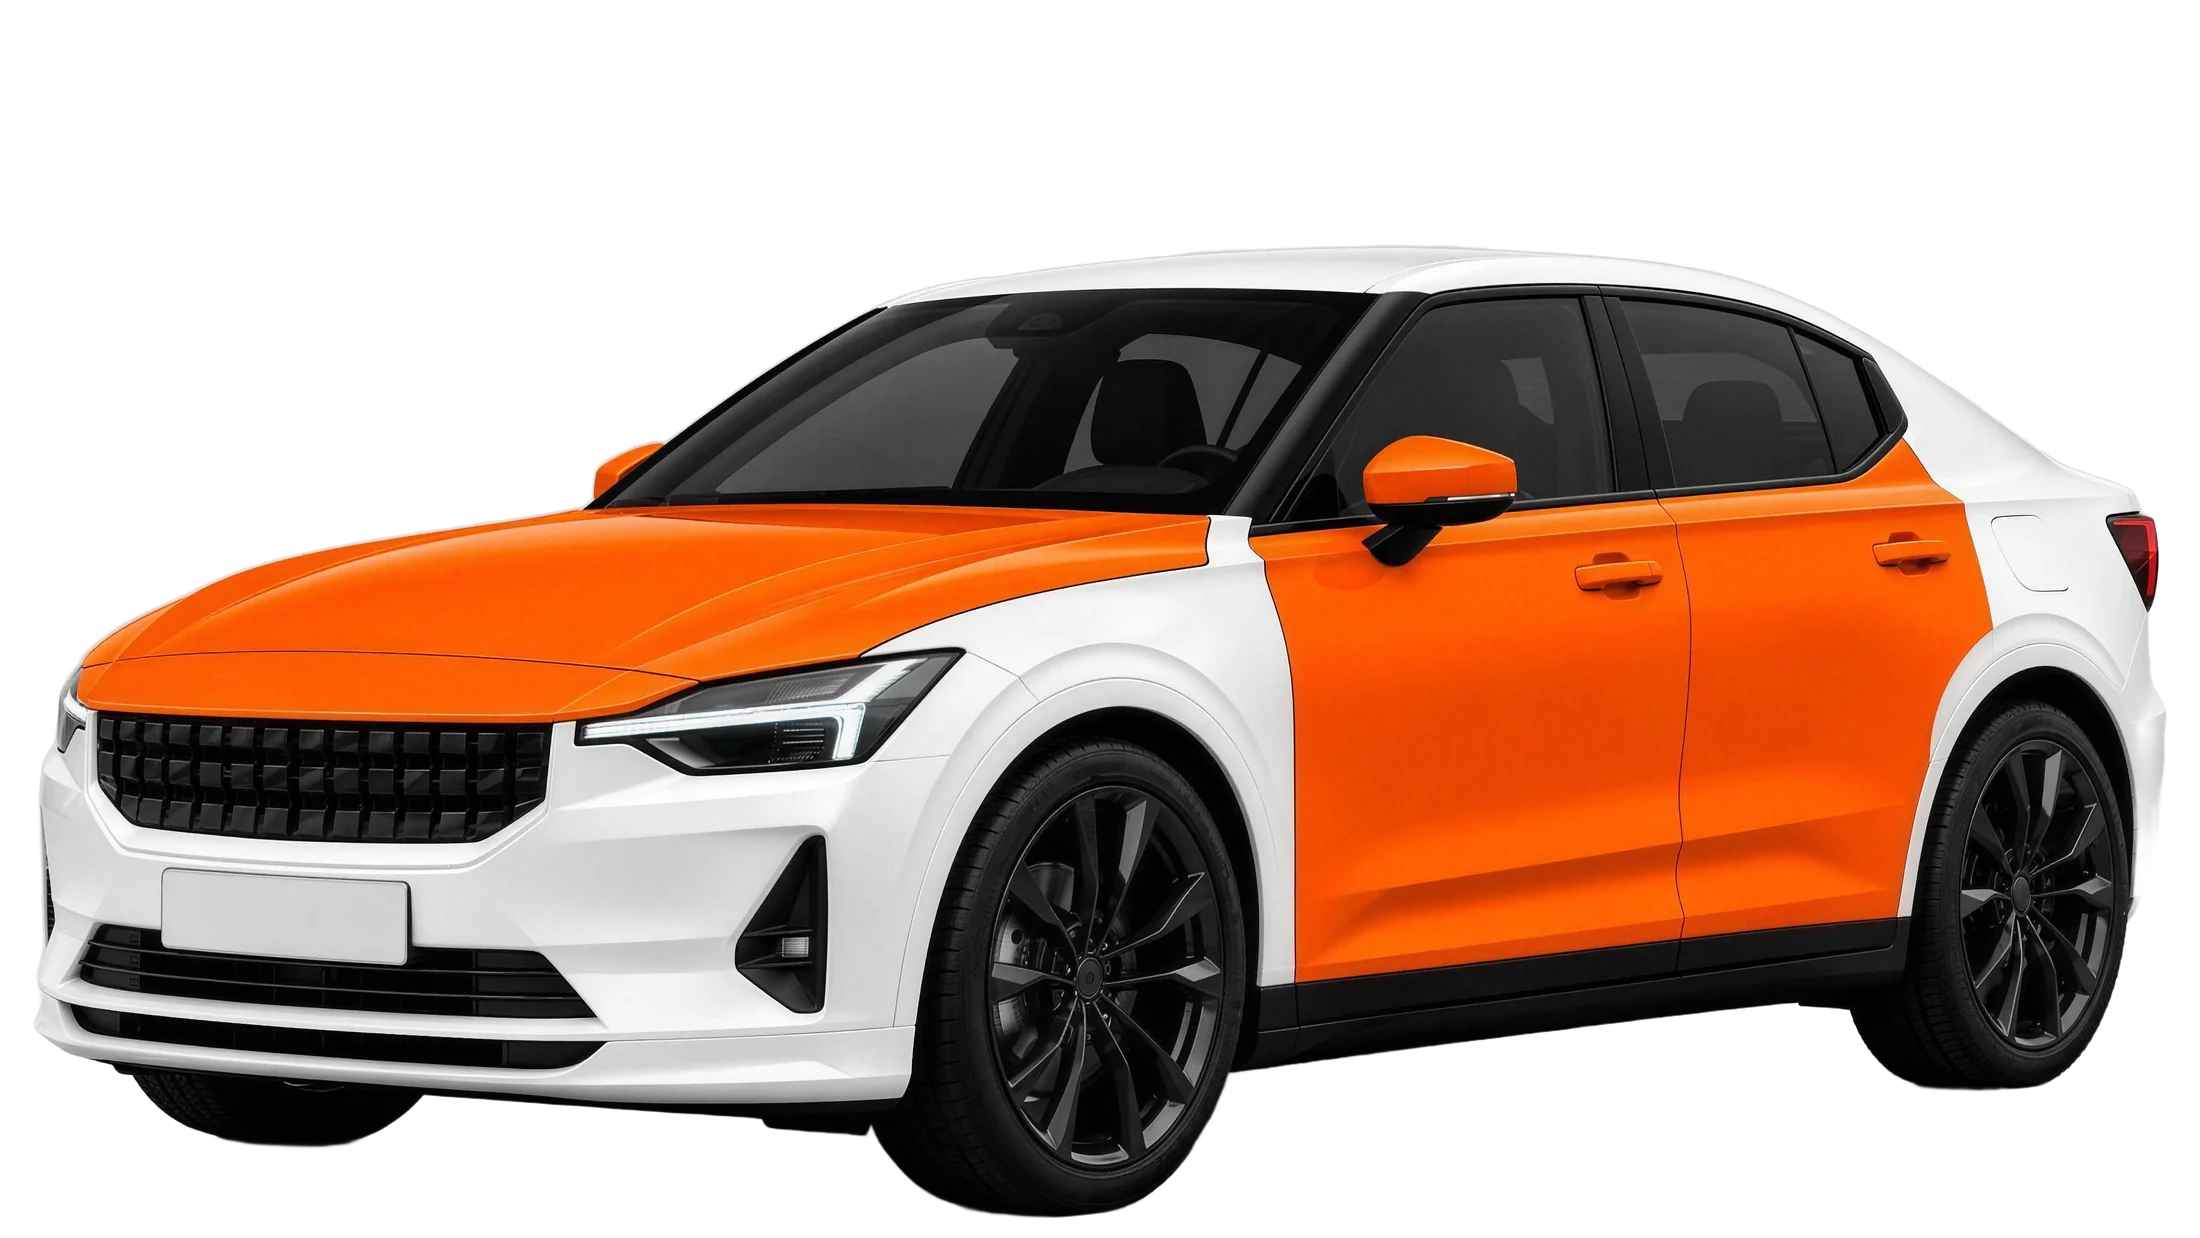
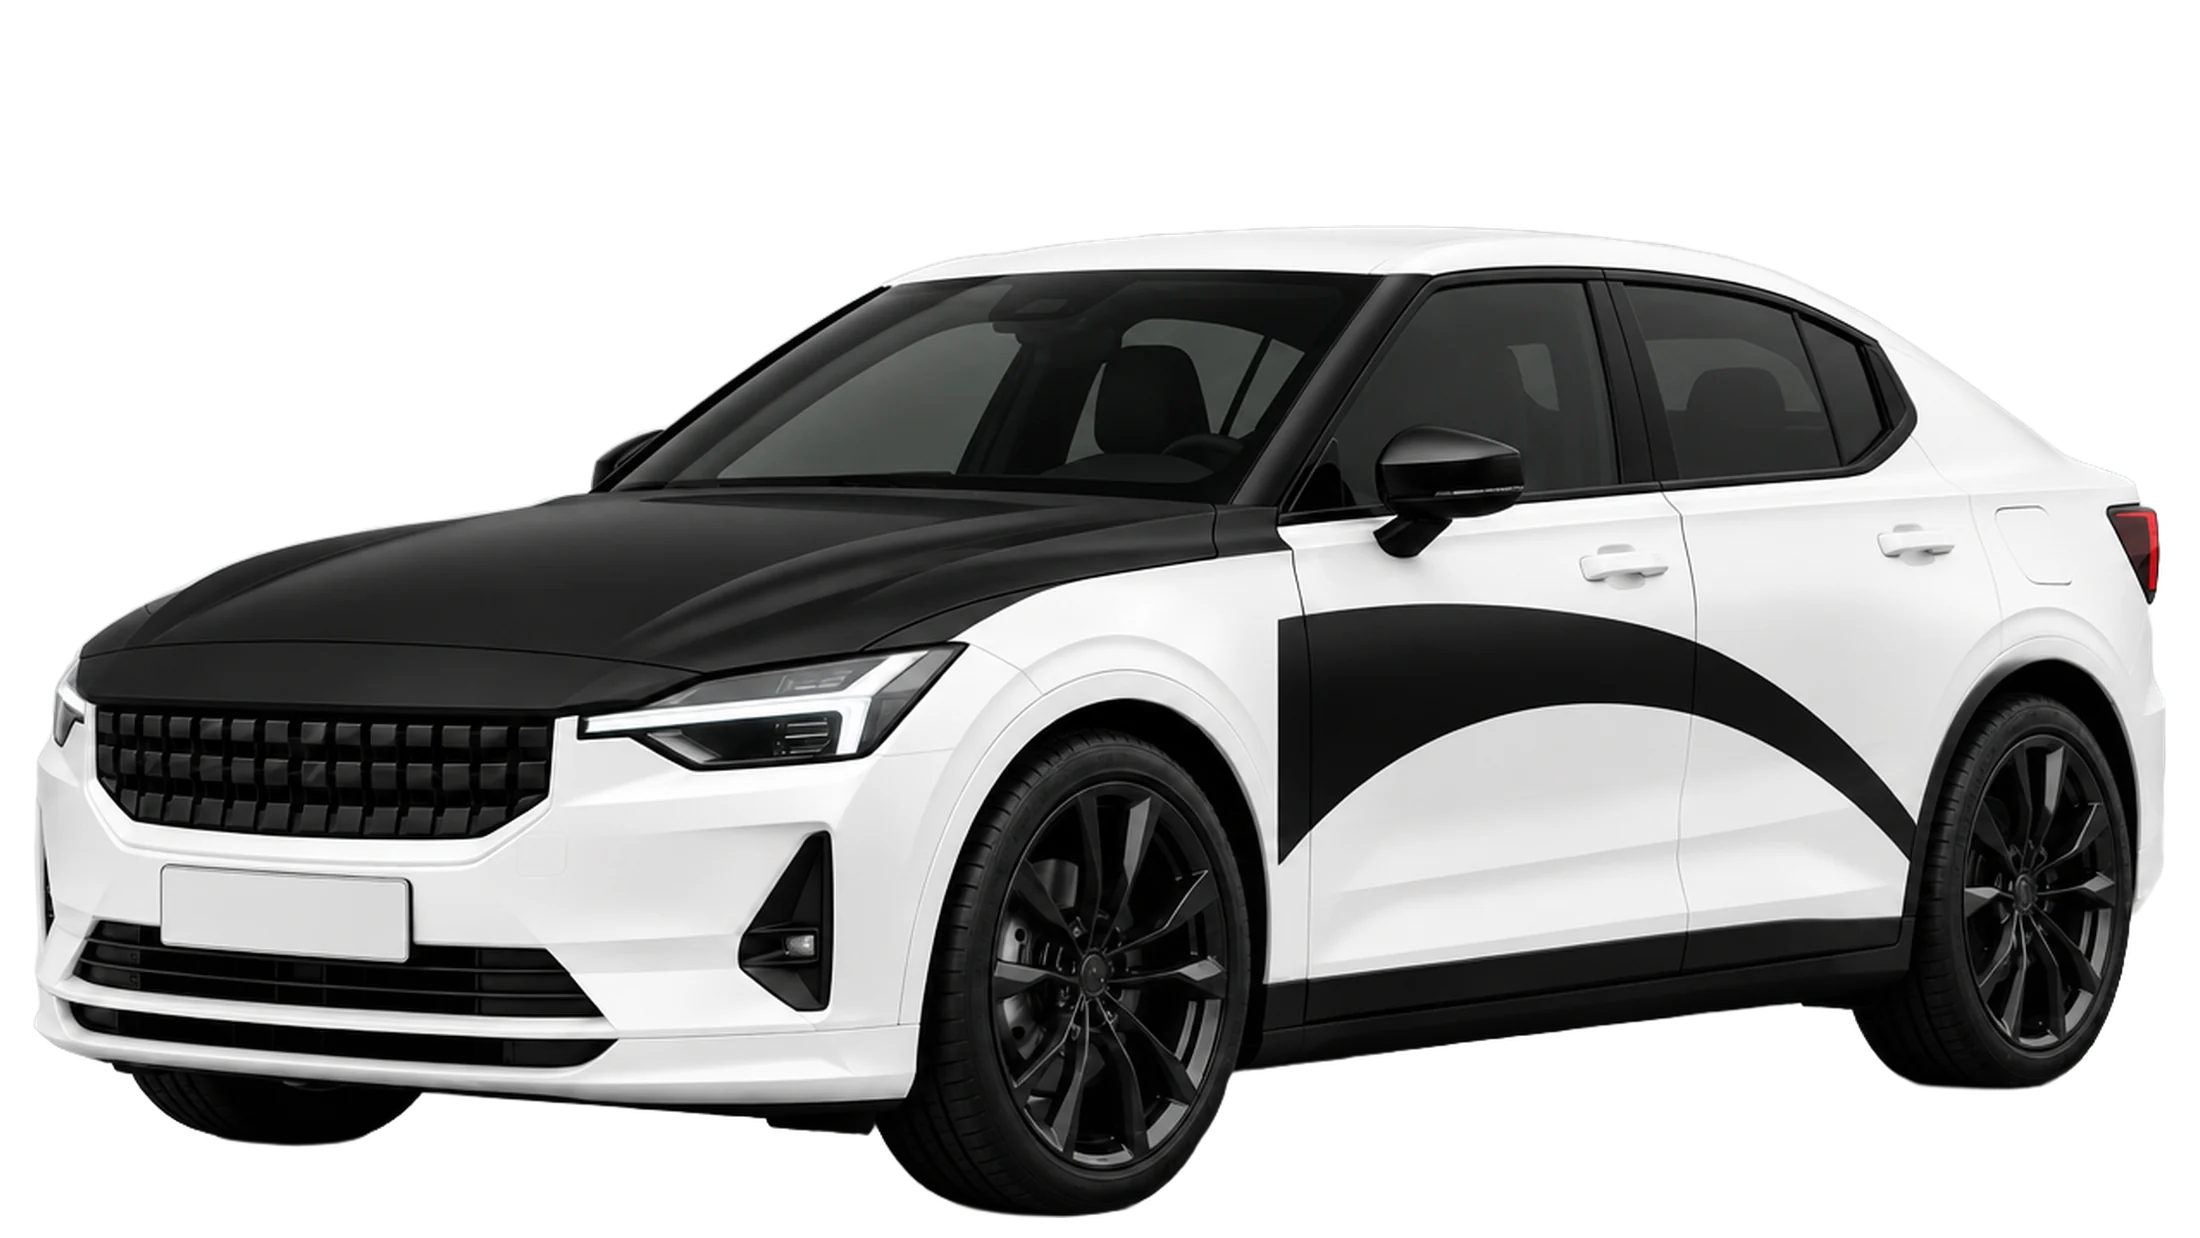
Maquette : voitures et pages des styles en noir et blanc

diff --git a/site/index.html b/site/index.html
@@ -31,7 +31,7 @@
 </div>
 <div data-sec="formats" id="formats">
 <header class="sh sb"><p class="eye">Nos styles de campagne</p><h2 class="big">Trois façons d'habiller une voiture</h2></header>
-<section class="f2"><div class="fst"><article class="fy" style="--c:var(--bg);--ct:var(--ink)"><h3 class="mega">Classique</h3><div class="fb"><div class="inf"><p class="say">La zone arrière et les rétroviseurs.</p><ul class="zs"><li class="on">Arrière</li><li class="on">Rétroviseurs</li><li class="">Portes</li><li class="">Capot</li><li class="">Tout le véhicule</li></ul></div><div class="gal"><figure class="g0"><img loading="lazy" src="img/s_a1.webp" alt="Classique : La zone arrière et les rétroviseurs." width="1600" height="900"></figure><figure class="g1"><img loading="lazy" src="img/s_a2.webp" alt="Classique : La zone arrière et les rétroviseurs." width="1600" height="900"></figure><figure class="g2"><img loading="lazy" src="img/d_a2_0.webp" alt="Classique : La zone arrière et les rétroviseurs." width="1600" height="900"></figure><figure class="g3"><img loading="lazy" src="img/d_a1_0.webp" alt="Classique : La zone arrière et les rétroviseurs." width="1600" height="900"></figure><figure class="g4"><img loading="lazy" src="img/d_a2_1.webp" alt="Classique : La zone arrière et les rétroviseurs." width="1600" height="900"></figure></div></div></article><article class="fy" style="--c:#F2600C;--ct:#140A02"><h3 class="mega">Medium</h3><div class="fb"><div class="inf"><p class="say">Les portes, l'arrière, les rétroviseurs et le capot.</p><ul class="zs"><li class="on">Arrière</li><li class="on">Rétroviseurs</li><li class="on">Portes</li><li class="on">Capot</li><li class="">Tout le véhicule</li></ul></div><div class="gal"><figure class="g0"><img loading="lazy" src="img/s_b1.webp" alt="Medium : Les portes, l'arrière, les rétroviseurs et le capot." width="1600" height="900"></figure><figure class="g1"><img loading="lazy" src="img/s_b2.webp" alt="Medium : Les portes, l'arrière, les rétroviseurs et le capot." width="1600" height="900"></figure><figure class="g2"><img loading="lazy" src="img/d_b1_0.webp" alt="Medium : Les portes, l'arrière, les rétroviseurs et le capot." width="1600" height="900"></figure><figure class="g3"><img loading="lazy" src="img/d_b2_0.webp" alt="Medium : Les portes, l'arrière, les rétroviseurs et le capot." width="1600" height="900"></figure><figure class="g4"><img loading="lazy" src="img/d_b1_1.webp" alt="Medium : Les portes, l'arrière, les rétroviseurs et le capot." width="1600" height="900"></figure></div></div></article><article class="fy" style="--c:#1530C8;--ct:#fff"><h3 class="mega">Complet</h3><div class="fb"><div class="inf"><p class="say">Toute la voiture, hors vitres.</p><ul class="zs"><li class="on">Arrière</li><li class="on">Rétroviseurs</li><li class="on">Portes</li><li class="on">Capot</li><li class="on">Tout le véhicule</li></ul></div><div class="gal"><figure class="g0"><img loading="lazy" src="img/s_c1.webp" alt="Complet : Toute la voiture, hors vitres." width="1600" height="900"></figure><figure class="g1"><img loading="lazy" src="img/s_c2.webp" alt="Complet : Toute la voiture, hors vitres." width="1600" height="900"></figure><figure class="g2"><img loading="lazy" src="img/d_c1_0.webp" alt="Complet : Toute la voiture, hors vitres." width="1600" height="900"></figure><figure class="g3"><img loading="lazy" src="img/d_c2_0.webp" alt="Complet : Toute la voiture, hors vitres." width="1600" height="900"></figure><figure class="g4"><img loading="lazy" src="img/d_c1_1.webp" alt="Complet : Toute la voiture, hors vitres." width="1600" height="900"></figure></div></div></article></div></section>
+<section class="f2"><div class="fst"><article class="fy" style="--c:var(--bg);--ct:var(--ink)"><h3 class="mega">Classique</h3><div class="fb"><div class="inf"><p class="say">La zone arrière et les rétroviseurs.</p><ul class="zs"><li class="on">Arrière</li><li class="on">Rétroviseurs</li><li class="">Portes</li><li class="">Capot</li><li class="">Tout le véhicule</li></ul></div><div class="gal"><figure class="g0"><img loading="lazy" src="img/s_a1.webp" alt="Classique : La zone arrière et les rétroviseurs." width="1600" height="900"></figure><figure class="g1"><img loading="lazy" src="img/s_a2.webp" alt="Classique : La zone arrière et les rétroviseurs." width="1600" height="900"></figure><figure class="g2"><img loading="lazy" src="img/d_a2_0.webp" alt="Classique : La zone arrière et les rétroviseurs." width="1600" height="900"></figure><figure class="g3"><img loading="lazy" src="img/d_a1_0.webp" alt="Classique : La zone arrière et les rétroviseurs." width="1600" height="900"></figure><figure class="g4"><img loading="lazy" src="img/d_a2_1.webp" alt="Classique : La zone arrière et les rétroviseurs." width="1600" height="900"></figure></div></div></article><article class="fy" style="--c:var(--sig);--ct:var(--sigt)"><h3 class="mega">Medium</h3><div class="fb"><div class="inf"><p class="say">Les portes, l'arrière, les rétroviseurs et le capot.</p><ul class="zs"><li class="on">Arrière</li><li class="on">Rétroviseurs</li><li class="on">Portes</li><li class="on">Capot</li><li class="">Tout le véhicule</li></ul></div><div class="gal"><figure class="g0"><img loading="lazy" src="img/s_b1.webp" alt="Medium : Les portes, l'arrière, les rétroviseurs et le capot." width="1600" height="900"></figure><figure class="g1"><img loading="lazy" src="img/s_b2.webp" alt="Medium : Les portes, l'arrière, les rétroviseurs et le capot." width="1600" height="900"></figure><figure class="g2"><img loading="lazy" src="img/d_b1_0.webp" alt="Medium : Les portes, l'arrière, les rétroviseurs et le capot." width="1600" height="900"></figure><figure class="g3"><img loading="lazy" src="img/d_b2_0.webp" alt="Medium : Les portes, l'arrière, les rétroviseurs et le capot." width="1600" height="900"></figure><figure class="g4"><img loading="lazy" src="img/d_b1_1.webp" alt="Medium : Les portes, l'arrière, les rétroviseurs et le capot." width="1600" height="900"></figure></div></div></article><article class="fy" style="--c:var(--bg2);--ct:var(--ink)"><h3 class="mega">Complet</h3><div class="fb"><div class="inf"><p class="say">Toute la voiture, hors vitres.</p><ul class="zs"><li class="on">Arrière</li><li class="on">Rétroviseurs</li><li class="on">Portes</li><li class="on">Capot</li><li class="on">Tout le véhicule</li></ul></div><div class="gal"><figure class="g0"><img loading="lazy" src="img/s_c1.webp" alt="Complet : Toute la voiture, hors vitres." width="1600" height="900"></figure><figure class="g1"><img loading="lazy" src="img/s_c2.webp" alt="Complet : Toute la voiture, hors vitres." width="1600" height="900"></figure><figure class="g2"><img loading="lazy" src="img/d_c1_0.webp" alt="Complet : Toute la voiture, hors vitres." width="1600" height="900"></figure><figure class="g3"><img loading="lazy" src="img/d_c2_0.webp" alt="Complet : Toute la voiture, hors vitres." width="1600" height="900"></figure><figure class="g4"><img loading="lazy" src="img/d_c1_1.webp" alt="Complet : Toute la voiture, hors vitres." width="1600" height="900"></figure></div></div></article></div></section>
 </div>
 <div data-sec="expertise" id="expertise">
 <section class="e1" data-v="1"><header class="sh"><p class="eye">De l'idée à la route</p><h2 class="big">Notre expertise</h2></header><div class="deck"><article class="tk cl"><div class="tki"><svg viewBox="0 0 24 24" aria-hidden="true"><path pathLength="1" d="M4 20l4-1L19 8l-3-3L5 16zM14 7l3 3"/></svg><h3>Conception graphique</h3><p>Nous créons vos visuels ou adaptons les vôtres aux surfaces du véhicule.</p></div></article><article class="tk cl"><div class="tki"><svg viewBox="0 0 24 24" aria-hidden="true"><path d="M4 8h16v9H4zM4 12h16"/></svg><h3>Covering et pose</h3><p>Nous préparons, imprimons et posons le film. Les vitres restent libres.</p></div></article><article class="tk cl"><div class="tki"><svg viewBox="0 0 24 24" aria-hidden="true"><circle cx="12" cy="12" r="8"/><circle cx="12" cy="12" r="2.5"/></svg><h3>Diffusion sur véhicules</h3><p>Votre campagne circule au quotidien dans les zones définies avec vous.</p></div></article><article class="tk cl"><div class="tki"><svg viewBox="0 0 24 24" aria-hidden="true"><path d="M4 18l6-6 4 4 6-8"/></svg><h3>Suivi des campagnes</h3><p>Vous recevez des rapports sur les données réellement disponibles.</p></div></article></div></section>

diff --git a/src/site_build.py b/src/site_build.py
@@ -10,8 +10,8 @@ C_P=[('Votre message','Nous imaginons une campagne pensée pour la route.','p_ms
 CONCEPT=['<section class="c2s" aria-label="Notre concept">'+f'<article class="pg p0" style="--i:0"><p class="eye">Notre concept</p><h2 class="huge">{C_T}</h2></article>'+''.join(f'<article class="pg p{i+1}" style="--i:{i+1}"><div class="tx"><span class="n">{i+1}/3</span><h3 class="huge">{t}</h3><p>{d}</p></div><figure><img loading="lazy" src="img/{m}.webp" alt="" width="1600" height="900"></figure></article>' for i,(t,d,m) in enumerate(C_P))+'</section>']
 Z=['Arrière','Rétroviseurs','Portes','Capot','Tout le véhicule']
 S=[dict(n='Classique',p='La zone arrière et les rétroviseurs.',k=2,col='var(--bg)',ct='var(--ink)',g=['s_a1','s_a2','d_a2_0','d_a1_0','d_a2_1']),
-   dict(n='Medium',p='Les portes, l\'arrière, les rétroviseurs et le capot.',k=4,col='#F2600C',ct='#140A02',g=['s_b1','s_b2','d_b1_0','d_b2_0','d_b1_1']),
-   dict(n='Complet',p='Toute la voiture, hors vitres.',k=5,col='#1530C8',ct='#fff',g=['s_c1','s_c2','d_c1_0','d_c2_0','d_c1_1'])]
+   dict(n='Medium',p='Les portes, l\'arrière, les rétroviseurs et le capot.',k=4,col='var(--sig)',ct='var(--sigt)',g=['s_b1','s_b2','d_b1_0','d_b2_0','d_b1_1']),
+   dict(n='Complet',p='Toute la voiture, hors vitres.',k=5,col='var(--bg2)',ct='var(--ink)',g=['s_c1','s_c2','d_c1_0','d_c2_0','d_c1_1'])]
 zs=lambda s:'<ul class="zs">'+''.join(f'<li class="{"on" if i<s["k"] else ""}">{z}</li>' for i,z in enumerate(Z))+'</ul>'
 G=lambda s:''.join(f'<figure class="g{i}"><img loading="lazy" src="img/{m}.webp" alt="{s["n"]} : {s["p"]}" width="1600" height="900"></figure>' for i,m in enumerate(s["g"]))
 F2='<section class="f2"><div class="fst">'+''.join(f'''<article class="fy" style="--c:{s["col"]};--ct:{s["ct"]}"><h3 class="mega">{s["n"]}</h3><div class="fb"><div class="inf"><p class="say">{s["p"]}</p>{zs(s)}</div><div class="gal">{G(s)}</div></div></article>''' for s in S)+'</div></section>'
